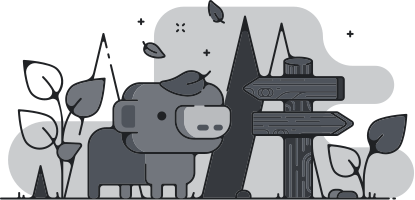
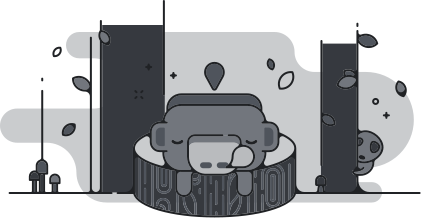
fix: friends tabs

diff --git a/src/templates/HomeTemplate/index.tsx b/src/templates/HomeTemplate/index.tsx
@@ -1,10 +1,45 @@
+/* eslint-disable @next/next/no-img-element */
 'use client'
 import React, { useState } from 'react'
 
+import { WumpusNotify } from '@molecules/WumpusNotify'
+
+import { type TCriticalAnyType } from '@core/types/common/critical-any'
+
+import { doNotDisturbStatus, idleStatus, offlineStatus, onlineStatus } from '@public/images'
+
 import { static_data_menu } from './resources'
+import { static_data_social } from './resources/constants/static-data'
 
 const HomeTemplate = () => {
     const [tab, setTab] = useState<number | null>(1)
+    const statusHandler = (status?: string | null) => {
+        switch (status) {
+            case 'online':
+                return onlineStatus.src
+            case 'offline':
+                return offlineStatus.src
+            case 'idle':
+                return idleStatus.src
+            case 'doNotDisturb':
+                return doNotDisturbStatus.src
+        }
+    }
+    const onlineMembers = static_data_social.filter((itemsMember) => itemsMember.status !== 'offline')
+    const dataMembersHandler = (): TCriticalAnyType => {
+        switch (tab) {
+            case 1:
+                return onlineMembers
+            case 2:
+                return static_data_social
+            case 3:
+                return []
+            case 4:
+                return []
+            case 5:
+                return []
+        }
+    }
 
     return (
         <div className='flex flex-col grow h-full '>
@@ -121,12 +156,105 @@ const HomeTemplate = () => {
                 </div>
             </div>
             <div className='flex flex-1  '>
-                <div className='flex-1 p-2  text-center'>
-                    {tab === 1 && <span className='w-full text-center'>online</span>}
+                <div className='flex-1 ml-[30px] mr-[20px] pt-5'>
+                    {/* {tab === 1 && <span className='w-full text-center'>online</span>}
                     {tab === 2 && <span className='w-full text-center'>All</span>}
                     {tab === 3 && <span className='w-full text-center'>pending</span>}
                     {tab === 4 && <span className='w-full text-center'>Suggestions</span>}
-                    {tab === 5 && <span className='w-full text-center'>Blocked</span>}
+                    {tab === 5 && <span className='w-full text-center'>Blocked</span>} */}
+
+                    <div className='flex flex-col text-sm gap-y-1 '>
+                        <span className='font-semibold'>
+                            {tab === 1 ? 'online' : tab === 2 ? 'All' : tab === 3 ? 'pending' : 'Blocked'}-{' '}
+                            {dataMembersHandler()?.length}
+                        </span>
+                        <hr className='border-[#46474e] border-[1.5px]' />
+                        {dataMembersHandler()?.length > 0 ? (
+                            dataMembersHandler().map((itemSocial: TCriticalAnyType, index: number) => (
+                                <>
+                                    <div
+                                        className='flex items-center justify-between hover:bg-[#393c41] px-2 py-2 rounded-lg cursor-pointer duration-300 group'
+                                        key={itemSocial.useId}
+                                    >
+                                        <div className='flex items-center gap-x-3'>
+                                            <div className='w-9 h-9 relative'>
+                                                <img
+                                                    src={itemSocial.avatar.src}
+                                                    className='w-full h-full rounded-full object-cover'
+                                                    alt=''
+                                                />
+                                                <div className='absolute -right-1 -bottom-0   '>
+                                                    <div className='w-4 h-4 bg-[#313338] flex items-center justify-center rounded-full'>
+                                                        <img
+                                                            src={statusHandler(itemSocial.status)}
+                                                            className='w-full h-full mb-1 object-cover'
+                                                            alt=''
+                                                        />
+                                                    </div>
+                                                </div>
+                                            </div>
+                                            <div className='flex flex-col justify-between'>
+                                                <div className='flex gap-x-2'>
+                                                    <span className='text-white'>{itemSocial.displayName}</span>
+                                                    <span className='hidden group-hover:block '>
+                                                        {itemSocial.username}
+                                                    </span>
+                                                </div>
+                                                <span className='text-xs'>{itemSocial.status}</span>
+                                            </div>
+                                        </div>
+                                        <div className='flex gap-x-2 text-[#b5bac1] *:hover:text-white'>
+                                            <div className='p-2 bg-[#2b2d31] rounded-full'>
+                                                <svg
+                                                    className='icon__7215c'
+                                                    aria-hidden='true'
+                                                    role='img'
+                                                    xmlns='http://www.w3.org/2000/svg'
+                                                    width='20'
+                                                    height='20'
+                                                    fill='none'
+                                                    viewBox='0 0 24 24'
+                                                >
+                                                    <path
+                                                        fill='currentColor'
+                                                        d='M12 22a10 10 0 1 0-8.45-4.64c.13.19.11.44-.04.61l-2.06 2.37A1 1 0 0 0 2.2 22H12Z'
+                                                        className=''
+                                                    ></path>
+                                                </svg>
+                                            </div>
+                                            <div className='p-2 bg-[#2b2d31] rounded-full'>
+                                                <svg
+                                                    className='icon__7215c'
+                                                    aria-hidden='true'
+                                                    role='img'
+                                                    xmlns='http://www.w3.org/2000/svg'
+                                                    width='20'
+                                                    height='20'
+                                                    fill='none'
+                                                    viewBox='0 0 24 24'
+                                                >
+                                                    <path
+                                                        fill='currentColor'
+                                                        fill-rule='evenodd'
+                                                        d='M10 4a2 2 0 1 0 4 0 2 2 0 0 0-4 0Zm2 10a2 2 0 1 1 0-4 2 2 0 0 1 0 4Zm0 8a2 2 0 1 1 0-4 2 2 0 0 1 0 4Z'
+                                                        clip-rule='evenodd'
+                                                        className=''
+                                                    ></path>
+                                                </svg>
+                                            </div>
+                                        </div>
+                                    </div>
+                                    {dataMembersHandler().length !== index + 1 && (
+                                        <hr className='border-[#46474e] border-[1.5px]' />
+                                    )}
+                                </>
+                            ))
+                        ) : (
+                            <div className='flex items-center justify-center '>
+                                <WumpusNotify type={tab} />
+                            </div>
+                        )}
+                    </div>
                 </div>
                 <div className='flex flex-col w-[360px] py-[16px] px-[8px] shadow-md p-2  '>
                     <span className='text-xl font-semibold text-white my-[16mx] px-[8px]'>Active Now</span>

diff --git a/src/templates/HomeTemplate/resources/constants/static-data.tsx b/src/templates/HomeTemplate/resources/constants/static-data.tsx
@@ -1,23 +1,87 @@
-import { avatar1Img } from '@public/images'
+import {
+    avatarBardia,
+    avatarDany,
+    avatarErfan,
+    avatarMont,
+    avatarNereix,
+    avatarShayan,
+    avatarSobhan,
+    avatarTheCode,
+    avatarYounes
+} from '@public/images'
 
 const static_data_menu = [
     { name: 'Online', id: 1 },
     { name: 'All', id: 2 },
     { name: 'Pending', id: 3 },
-    { name: 'Suggestions', id: 4 },
-    { name: 'Blocked', id: 5 }
+    // { name: 'Suggestions', id: 4 },
+    { name: 'Blocked', id: 4 }
 ]
 const static_data_social = [
     {
-        displayName: '!        ✬ Lkys ˢᵉʳᵉⁿⁱᵗʸ',
-        username: 'lkyssss',
-        avatar: avatar1Img.src,
-        useId: '215801692711550976'
+        displayName: 'TriTium',
+        username: 'thetritium',
+        avatar: avatarShayan,
+        useId: '214280633692717056',
+        status: 'doNotDisturb'
     },
-    { displayName: '', username: '', avatar: '', useId: '' },
-    { displayName: '', username: '', avatar: '', useId: '' },
-    { displayName: '', username: '', avatar: '', useId: '' },
-    { displayName: '', username: '', avatar: '', useId: '' },
-    { displayName: '', username: '', avatar: '', useId: '' }
+    {
+        displayName: '家 𝒀𝒐𝒖𝒏𝒆𝒔 𝑯𝒊𝒅𝒅𝒆𝒏',
+        username: 'younes_hidden',
+        avatar: avatarYounes,
+        useId: '218498762350395405',
+        status: 'online'
+    },
+    {
+        displayName: '- Erfan AtRisk',
+        username: 'atri3k',
+        avatar: avatarErfan,
+        useId: '185842812888023040',
+        status: 'idle'
+    },
+    {
+        displayName: '- Bardia',
+        username: 'bardiaxv',
+        avatar: avatarBardia,
+        useId: '180204915942096896',
+        status: 'doNotDisturb'
+    },
+    {
+        displayName: 'Mont',
+        username: 'freezemont',
+        avatar: avatarMont,
+        useId: '505051488779894794',
+        status: 'doNotDisturb'
+    },
+    {
+        displayName: '- The.Code',
+        username: 'thecode',
+        avatar: avatarTheCode,
+        useId: '179939072075235329',
+        status: 'doNotDisturb'
+    },
+    {
+        displayName: 'NothingToSay',
+        username: 'nereix',
+        avatar: avatarNereix,
+        useId: '1095366826797576344',
+        status: 'doNotDisturb'
+    },
+    {
+        displayName: 'خــودِ دَنــی',
+        username: 'daniyartune',
+        avatar: avatarDany,
+        useId: '325301808543170569',
+        status: 'offline'
+    },
+    {
+        displayName: '!sobhan!',
+        username: 'sobhan002',
+        avatar: avatarSobhan,
+        useId: '510109656098537475',
+        status: 'online'
+    }
 ]
+
+// online offline idle doNotDisturb
 export { static_data_menu, static_data_social }

diff --git a/src/components/molecules/WumpusNotify/WumpusNotify.tsx b/src/components/molecules/WumpusNotify/WumpusNotify.tsx
@@ -1,20 +1,22 @@
 /* eslint-disable @next/next/no-img-element */
 import { type FC } from 'react'
 
-import { type TCriticalAnyType } from '@core/types/common/critical-any'
+import { wumpus1Img, wumpus2Img, wumpus3Img, wumpus4Img } from '@public/images'
 
-import { wumpus1Img } from '@public/images'
-
-const WumpusNotify: FC<{ image: TCriticalAnyType; notification: string }> = ({
-    image = wumpus1Img.src,
-    notification = '# ... .. .'
-}) => {
-    console.log(image, notification)
+const WumpusNotify: FC<{ notification?: string | null; type: number | null }> = ({ type = 1, notification }) => {
+    const imageWumpus =
+        type === 1
+            ? { image: wumpus1Img.src, text: "No one's around to play with Wumpus." }
+            : type === 2
+              ? { image: wumpus2Img.src, text: 'Wumpus is waiting on friends. You don’t have to though!' }
+              : type === 3
+                ? { image: wumpus3Img.src, text: "There are no pending friend requests. Here's Wumpus for now." }
+                : { image: wumpus4Img.src, text: "You can't unblock the Wumpus." }
 
     return (
-        <div className='flex flex-col text-center gap-3 select-none'>
-            <img src={image.src} alt='' />
-            <span className=' font-semibold'>{notification}</span>
+        <div className='flex flex-col items-center text-center gap-3 select-none'>
+            <img src={imageWumpus.image} className='w-full h-full object-cover' alt='' />
+            <span className=' font-semibold'>{notification || imageWumpus.text}</span>
         </div>
     )
 }

diff --git a/public/images/index.tsx b/public/images/index.tsx
@@ -1,0 +1,51 @@
+import avatar1Img from './avatar1.webp'
+import avatarBardia from './avatarBardia.webp'
+import avatarDany from './avatarDany.webp'
+import avatarErfan from './avatarErfan.webp'
+import avatarMont from './avatarMont.webp'
+import avatarNereix from './avatarNereix.webp'
+import avatarShayan from './avatarShayan.webp'
+import avatarSobhan from './avatarSobhan.webp'
+import avatarTheCode from './avatarTheCode.webp'
+import avatarYounes from './avatarYounes.webp'
+import BrokenImg from './broken-image.png'
+import dis1Img from './dis1.webp'
+import dis2Img from './dis2.png'
+import dis3Img from './dis3.webp'
+import dis4Img from './dis4.webp'
+import doNotDisturbStatus from './donotdisturbStatus.png'
+import idleStatus from './idleStatus.png'
+import logo from './logo.png'
+import offlineStatus from './offlineStatus.png'
+import onlineStatus from './onlineStatus.png'
+import wumpus1Img from './wumpus1.png'
+import wumpus2Img from './wumpus2.png'
+import wumpus3Img from './wumpus3.png'
+import wumpus4Img from './wumpus4.png'
+
+export {
+    logo,
+    BrokenImg,
+    dis1Img,
+    dis2Img,
+    dis3Img,
+    dis4Img,
+    wumpus1Img,
+    wumpus2Img,
+    wumpus3Img,
+    wumpus4Img,
+    avatar1Img,
+    avatarSobhan,
+    avatarBardia,
+    avatarErfan,
+    avatarShayan,
+    avatarTheCode,
+    avatarYounes,
+    avatarMont,
+    avatarDany,
+    doNotDisturbStatus,
+    idleStatus,
+    onlineStatus,
+    offlineStatus,
+    avatarNereix
+}

diff --git a/src/components/partials/layouts/AppLayout/AppLayout.tsx b/src/components/partials/layouts/AppLayout/AppLayout.tsx
@@ -4,7 +4,7 @@ import { InternalSidebar, Sidebar } from './resources'
 
 const AppLayout = ({ children }: { children: ReactNode }) => {
     return (
-        <div className='flex h-screen bg-cyan-200 text-[#949ba4] select-none'>
+        <div className='flex min-h-screen bg-cyan-200 text-[#949ba4] select-none'>
             {/* Sidebar */}
             <Sidebar />
 
